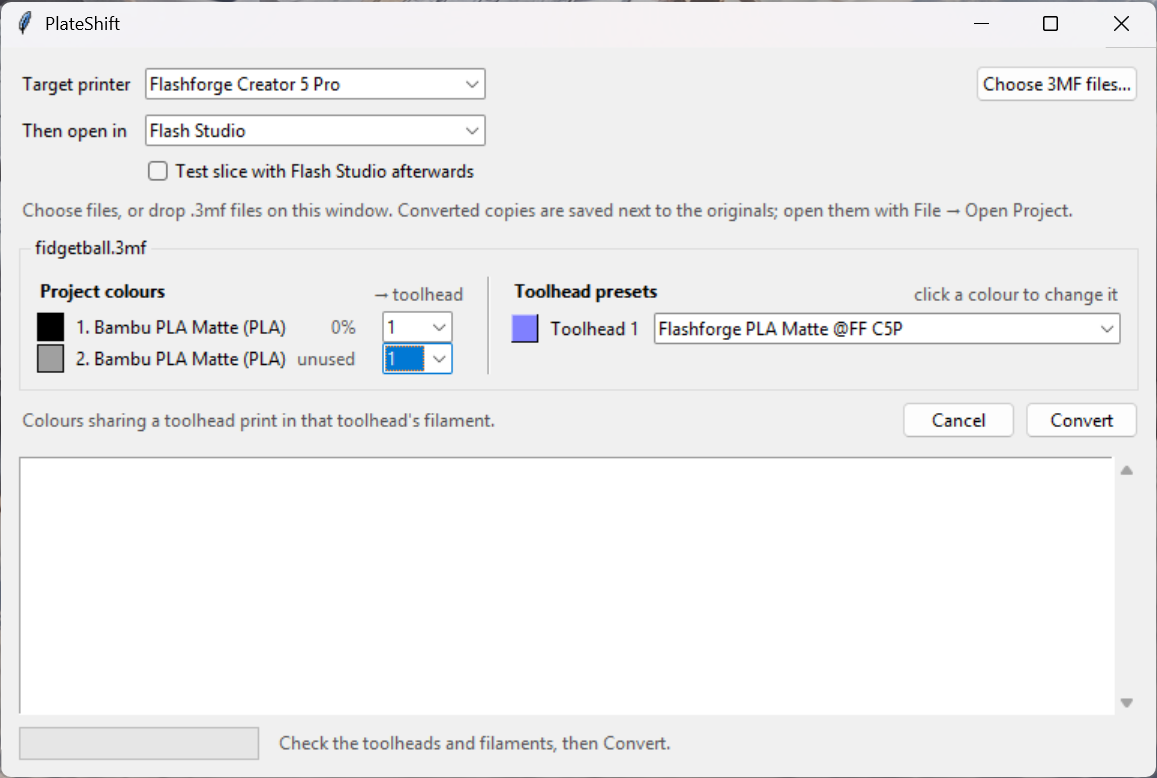
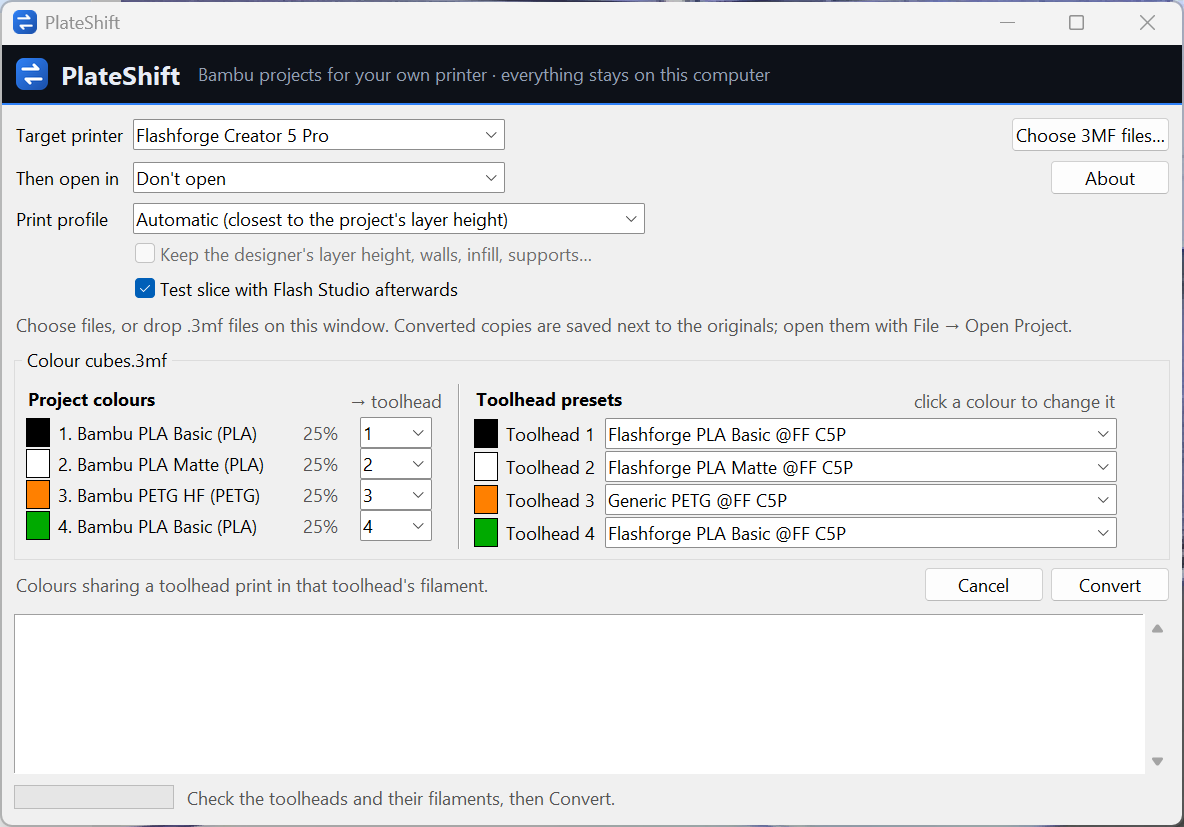
Fresh Windows screenshots with the new look, for the README and website

Changed region(s): [[0.0, 0.0, 1.0, 1.0]]

diff --git a/website/index.html b/website/index.html
@@ -196,7 +196,7 @@
       <p class="small">Windows · macOS · Linux &nbsp;·&nbsp; MIT licence</p>
     </div>
     <div class="shot">
-      <img src="images/done_results.png" width="1094" height="738"
+      <img src="images/done_results.png" width="1184" height="827"
            alt="The PlateShift window after converting a project, showing the printer, filaments and a successful test slice">
     </div>
   </div>
